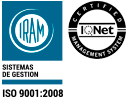
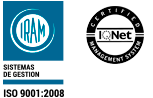
Arreglos varios

diff --git a/public/css/jma-styles.css b/public/css/jma-styles.css
@@ -63,6 +63,9 @@ footer p {font-size: 1em}
 
 /* H O M E */
 .colTextoHome {float: left; width:5em; padding-right: 1em }
+.colTextoHome .certificaciones{}
+.colTextoHome .certificacionesA{display: none;}
+
 h1 {font-size: 1.125em; font-weight: 400; margin-top: 3em; margin-left: 5.2em;}
 .colFotosHome {float: left; width:14.5em; margin-right:2.375em  }
 	.colFotosHome p {padding-left: 1em}
@@ -231,6 +234,7 @@ h4.subtitulos {color: #BAD532; text-align: center;font-size: 20px }
 @media screen and (max-width: 1110px) {
 	.ui-tabs .ui-tabs-nav li {float: none;}
 	.ui-tabs .ui-tabs-nav li:last-child {position: static;}
+	.marca {width:460px; height: 80px; top: 30px;}
 }
 
 @media screen and (max-width: 1080px) {
@@ -239,23 +243,34 @@ h4.subtitulos {color: #BAD532; text-align: center;font-size: 20px }
 	.slide {min-height: 350px;}
 }
 
+@media screen and (max-width: 1010px) {
+
+.colTextoHome .certificaciones{display: none;}
+.colTextoHome .certificacionesA{display: inline-block;}
+.colTextoHome {width: 100%; text-align: center; float: none;}
+.colFotosHome {width:22%; margin-right:2% }
+.colCertain {width:22%;}
+h1 {margin:1.5em 0; }
+h2 {font-size: 1em}
+}
+
 @media screen and (max-width: 1000px) {
 	.galeriaPlanta img {width: 17.5%; margin: 1%;}
 	.galeriaPlanta img:nth-child(6), .galeriaPlanta img:nth-child(7) {display: none;}
 	.colMapa1, .colMapa2 {font-size: 1em}
 	.slide {min-height: 300px;}
 }
+
+
 @media screen and (max-width: 940px) {
 	.data-fiscal {display: none;}
 	.colMapa1, .colMapa2 {font-size: 1.125em}
 	.slide {min-height: 260px;}
+	.marca {background: url(../images/jma-admin.png) no-repeat center; width: 280px; height: 90px; top: 10px;}
 }
 
 @media screen and (max-width: 910px) {
 	section {padding-top: 0}
-	.colTextoHome {width:100%; padding-right: 0; float: none }
-	.colFotosHome {width:30.3%; margin-right:3%  }
-
 	.colForm {width: 70%; margin: 2em auto 3em; float: none; }
 	.copy {display: none;}
 	.colContentMapas {width: 100%; float: none;}
@@ -270,12 +285,18 @@ h4.subtitulos {color: #BAD532; text-align: center;font-size: 20px }
 	.listaNoticias .divInfoNoticia {float: none; margin-left: 150px;}
 }	
 
-@media screen and (max-width: 760px) {
+@media screen and (max-width: 767px) {
+	header {height: auto}
 	.slide {min-height: 160px;}
+	.marca {background: url(../images/jma-admin.png) no-repeat center; width: 100%; position: static;}
+	.marca img {width: 100%; height: auto}
+	.redesH {float: none; margin: 0 auto 0.5em; width: 200px; text-align: center;}
+	.suscribirse {float: none; margin: 0.5em auto}
+	.btnVideo {position: static; display: block; margin: 0 auto 0.5em}
 }
 
 @media screen and (max-width: 710px) {
-	.marca img {width: 100%; height: auto}
+	
 	.colFotosHome h2 {height: 2.5em;}
 	.colTextos, .colFotos, .solapas, .col50 {width: 100%; float: none;}
 	.colMapa1, .colMapa2 {font-size: 1em}
@@ -285,7 +306,6 @@ h4.subtitulos {color: #BAD532; text-align: center;font-size: 20px }
 }
 
 @media screen and (max-width: 670px) {
-	.marca {background: url(../images/jma-admin.png) no-repeat center; width: 100%;}
 	.colFotosHome h2 {height: 2em; font-size: 1.1em}
 	.colFotosHome p {font-size: 1em}
 	.galeriaPlanta img {width: 22%; margin: 1%;}
@@ -305,8 +325,5 @@ h4.subtitulos {color: #BAD532; text-align: center;font-size: 20px }
 	.colFotosHome h2 {height: 2em; font-size: 1.1em}
 	.colFotosHome p {font-size: 1em}
 	.galeriaPlanta img {width: 47%; margin: 1%;}
-}
-
-@media screen and (max-width: 400px) {
-	.colFotosHome {width:100%; margin-right:0; margin-bottom: 2em }
+	.colFotosHome, .colCertain {width:100%; margin-right:0; margin-bottom: 2em }
 }

diff --git a/public/css/jma-stylesmenu.css b/public/css/jma-stylesmenu.css
@@ -130,6 +130,8 @@
 #cssmenu ul ul li a.btn4 {background: #E3EEAC; color: #85A640}
 #cssmenu ul ul li a.btn4:hover {background: #F5F9D7}
 #cssmenu ul ul li.active a.btn4 {background: #F5F9D7}
+ul.menuPrinc>li:nth-child(1) ul li:nth-child(5) a {background: #E3EEAC; color: #85A640 !important}
+ul.menuPrinc>li:nth-child(1) ul li:nth-child(5) a:hover {background: #F5F9D7}
 
 ul.menuPrinc>li:nth-child(2) ul li:nth-child(4) a {background: #107ABF url(../images/btn-certain.png) no-repeat center !important; text-indent: -9999px;}
 ul.menuPrinc>li:nth-child(2) ul li:nth-child(5) a {background: #A7A9AC url(../images/btn-gpyc.png) no-repeat center !important; text-indent: -9999px;}

diff --git a/app/views/jma-inicio.blade.php b/app/views/jma-inicio.blade.php
@@ -11,6 +11,7 @@
     <h1>Somos la Empresa Argentina Líder en fabricación y comercialización de Perfiles de Acero Galvanizado, desarrollando todas las variantes que demandan el mercado interno y externo:</h1>
     <div class="colTextoHome">
         <img class="certificaciones" src="{{URL::to('images/certificaciones2.png')}}" alt="Certificación IRAM e IQNET">
+        <img class="certificacionesA" src="{{URL::to('images/certificaciones.png')}}" alt="Certificación IRAM e IQNET">
     </div>
     <div class="colFotosHome">
         <a href="{{URL::to('menu/perfiles-desmontables')}}">
